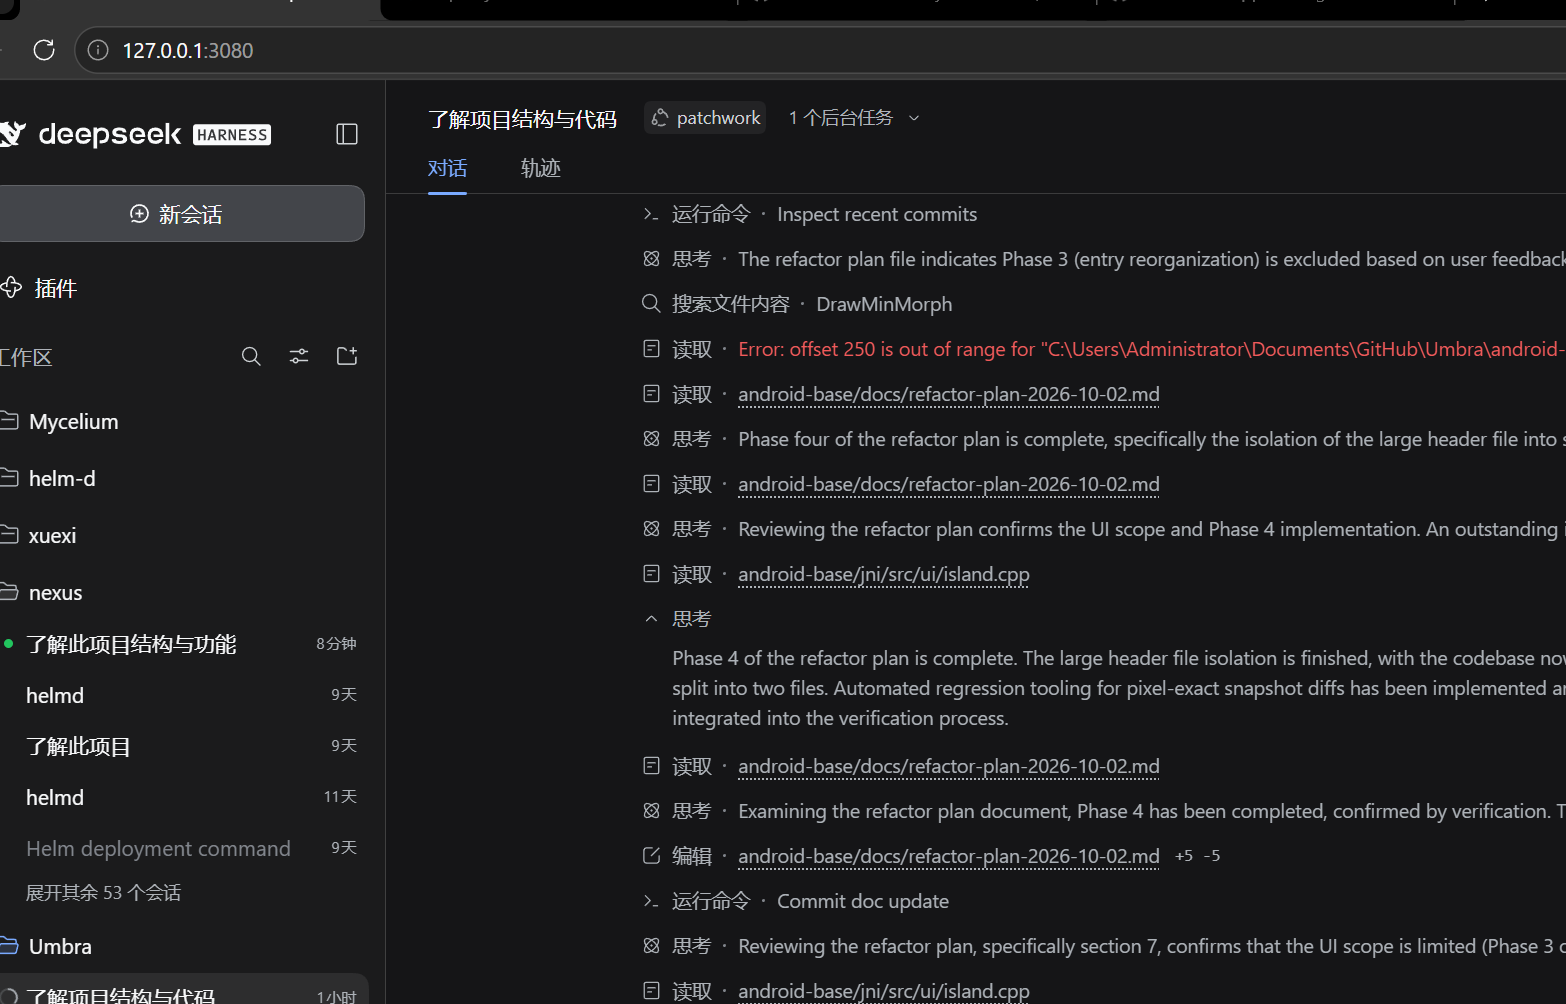
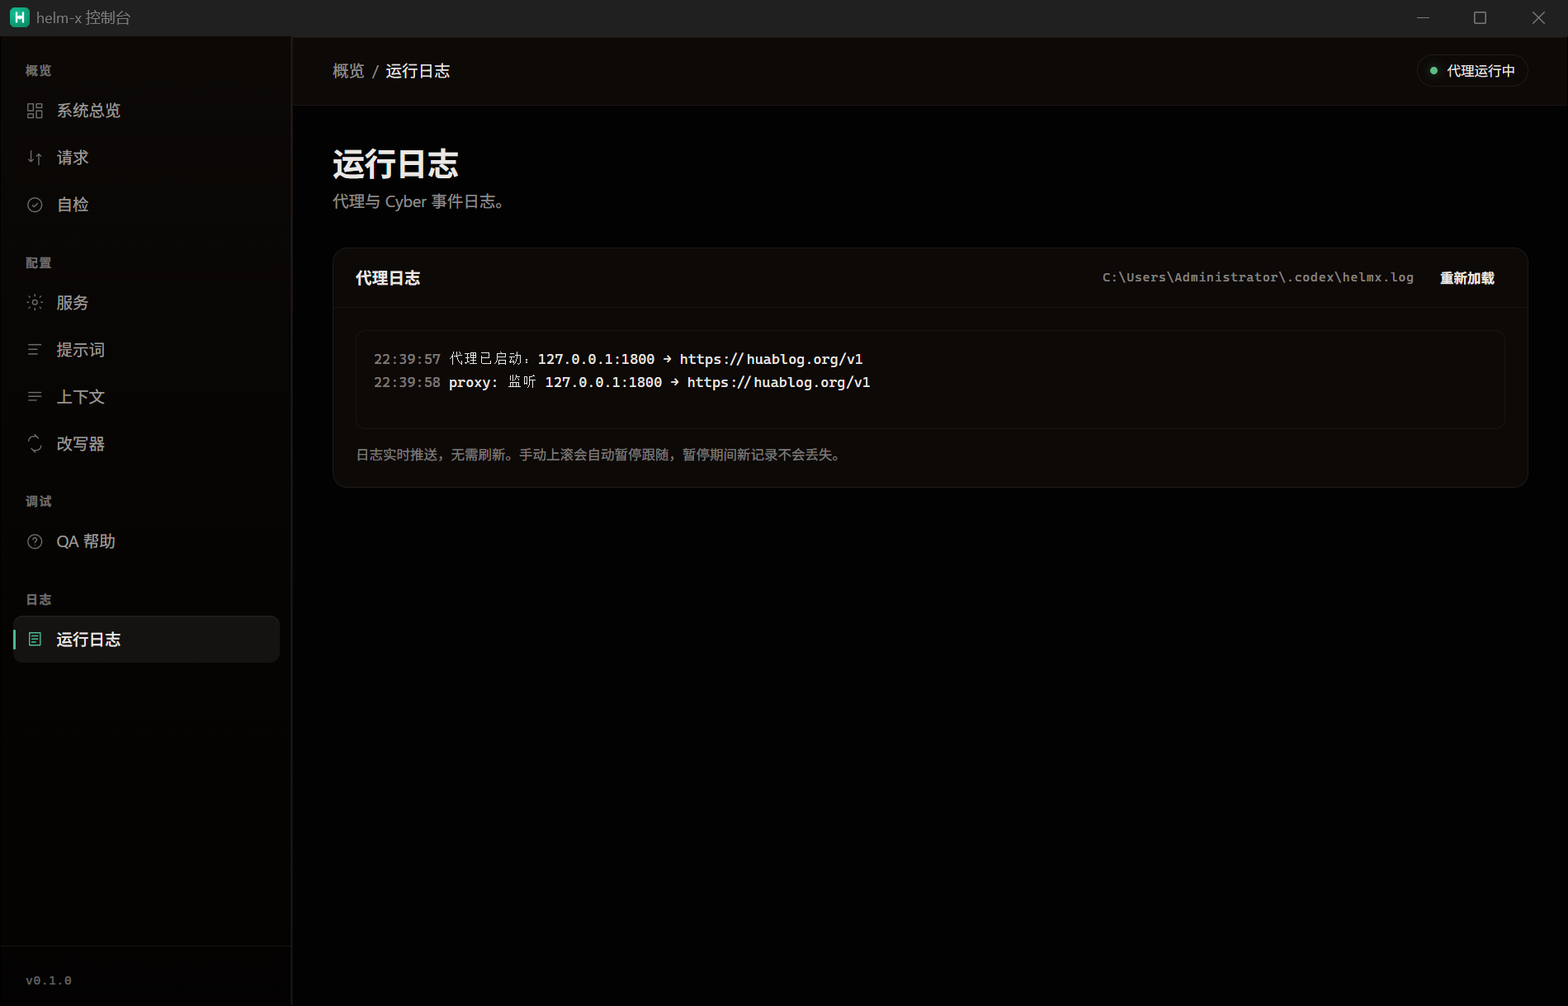
fix(ui): 修界面整块黑 —— 移除 WebView2 高危渲染特性
用户实测界面黑屏（标题栏正常、内容区整块黑，截图对照）。
两类已知嫌疑全部拆除：

- backdrop-filter 毛玻璃（顶栏/侧栏/弹窗）→ 改实体分层材质
  （渐变+受光边+投影保留"浮层感"）；滤镜动画（materialize 的
  blur）一并移除，只留 scale+opacity
- RouterView 的 Transition 包装（enter-from opacity:0 有卡死风险）
  → 移除，页面直出

重建后实机窗口截帧：卡片表面+正文文字恢复渲染（修复前同区域
全黑）。vitest 21 passed、vue-tsc 0、wails3 task build 0。

未验证：浅色主题；毛玻璃在正常 GPU 环境的观感（宁可保守不用）。

diff --git a/frontend/src/style.css b/frontend/src/style.css
@@ -123,12 +123,11 @@ body {
 
 /* ═══ 材质与深度（§12）═══ */
 
-/* 顶栏：毛玻璃浮层，内容从底下滚过；亮上边模拟受光面。
-   分隔用发丝线而非硬边界（用户此前要求保留分隔线，取最柔一档）。 */
+/* 顶栏：实体材质。注意：不用 backdrop-filter —— 毛玻璃在
+   WebView2 软件合成/GPU 异常环境会产出黑块（实测：内容区整块黑）。
+   实体分层 + 受光边 + 投影同样能读出"浮层"感。 */
 .app-topbar {
-  background: color-mix(in oklch, var(--color-base-100) 68%, transparent);
-  backdrop-filter: blur(24px) saturate(180%);
-  -webkit-backdrop-filter: blur(24px) saturate(180%);
+  background-color: color-mix(in oklch, var(--color-base-100) 82%, var(--color-base-200));
   border-bottom: 1px solid var(--color-hairline-soft);
   box-shadow: inset 0 1px 0 var(--color-material-edge);
 }
@@ -137,11 +136,9 @@ body {
 .app-sidebar {
   background: linear-gradient(
     180deg,
-    color-mix(in oklch, var(--color-base-200) 88%, transparent) 0%,
-    color-mix(in oklch, var(--color-base-100) 92%, transparent) 100%
+    color-mix(in oklch, var(--color-base-200) 88%, var(--color-base-100)) 0%,
+    color-mix(in oklch, var(--color-base-100) 96%, var(--color-base-200)) 100%
   );
-  backdrop-filter: blur(20px) saturate(160%);
-  -webkit-backdrop-filter: blur(20px) saturate(160%);
   border-right: 1px solid var(--color-hairline-soft);
   box-shadow: inset -1px 0 0 var(--color-material-edge);
 }
@@ -158,37 +155,31 @@ body {
     box-shadow 200ms var(--ease-out-soft);
 }
 
-/* 浮层弹窗：比卡片更重的投影 + 材质化进场（§12：blur+scale 一起动，
-   读作"一块材料落下来"，而不是普通淡入） */
+/* 浮层弹窗：比卡片更重的投影 + 轻量进场（scale+opacity，
+   不做 blur 滤镜动画 —— 滤镜动画同样是合成器高危项） */
 .modal > .modal-box {
-  background-color: color-mix(in oklch, var(--color-base-200) 92%, transparent);
-  backdrop-filter: blur(32px) saturate(180%);
-  -webkit-backdrop-filter: blur(32px) saturate(180%);
+  background-color: var(--color-base-200);
   border: 1px solid var(--color-hairline);
   box-shadow:
     0 2px 8px rgba(0, 0, 0, 0.35),
     0 32px 64px -24px rgba(0, 0, 0, 0.65);
-  animation: materialize 280ms var(--ease-spring);
+  animation: materialize 220ms var(--ease-spring);
 }
 
 @keyframes materialize {
   from {
     opacity: 0;
-    transform: scale(0.96) translateY(10px);
-    filter: blur(6px);
+    transform: scale(0.97) translateY(8px);
   }
   to {
     opacity: 1;
     transform: scale(1) translateY(0);
-    filter: blur(0);
   }
 }
 
-/* 弹窗遮罩：调暗聚焦（§12 Dim to focus），轻模糊把背景推远 */
+/* 弹窗遮罩：调暗聚焦（§12 Dim to focus），实体色不依赖滤镜 */
 .modal-backdrop {
-  background-color: rgba(0, 0, 0, 0.45);
-  backdrop-filter: blur(3px);
-  -webkit-backdrop-filter: blur(3px);
+  background-color: rgba(0, 0, 0, 0.5);
 }
 
 /* ═══ 交互反馈（§1：pointer-down 即时响应）═══ */

diff --git a/frontend/src/App.vue b/frontend/src/App.vue
@@ -140,12 +140,9 @@ onUnmounted(() => {
           </p>
         </div>
 
-        <!-- 页面切换：进场弹簧、退场快淡，进出同路径（§7） -->
-        <RouterView v-slot="{ Component }">
-          <Transition name="page" mode="out-in">
-            <component :is="Component" />
-          </Transition>
-        </RouterView>
+        <!-- 页面切换暂不加 Transition 包装：enter-from 的 opacity:0
+             在 WebView2 异常合成环境下有卡死风险（内容整块不显示）。 -->
+        <RouterView />
       </main>
     </div>
   </div>
